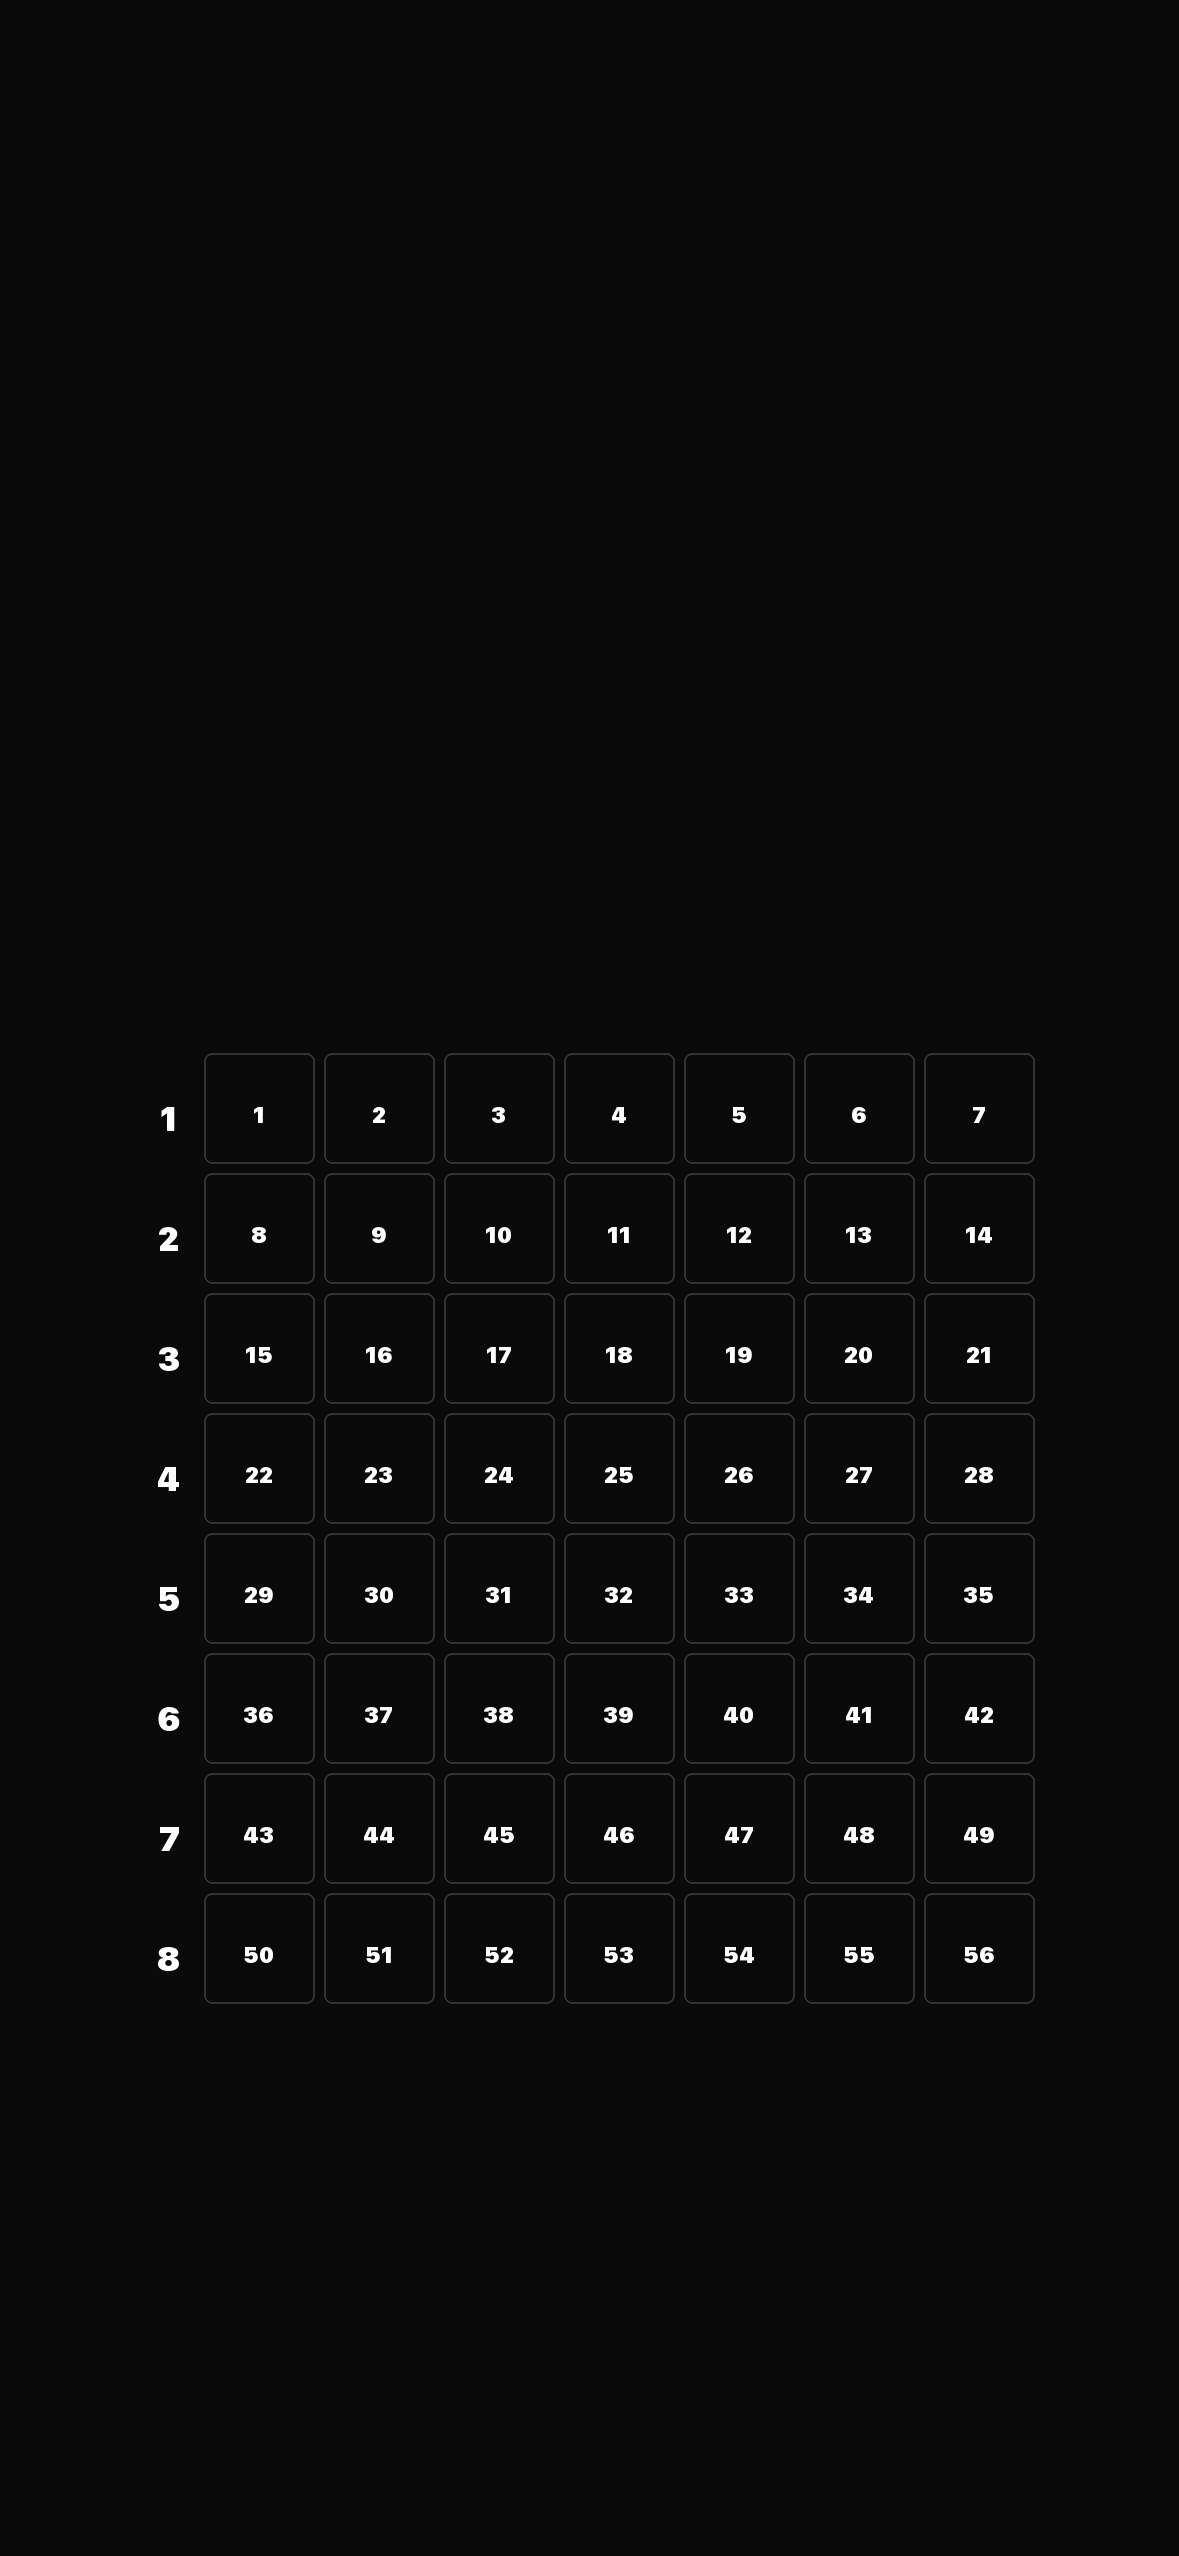
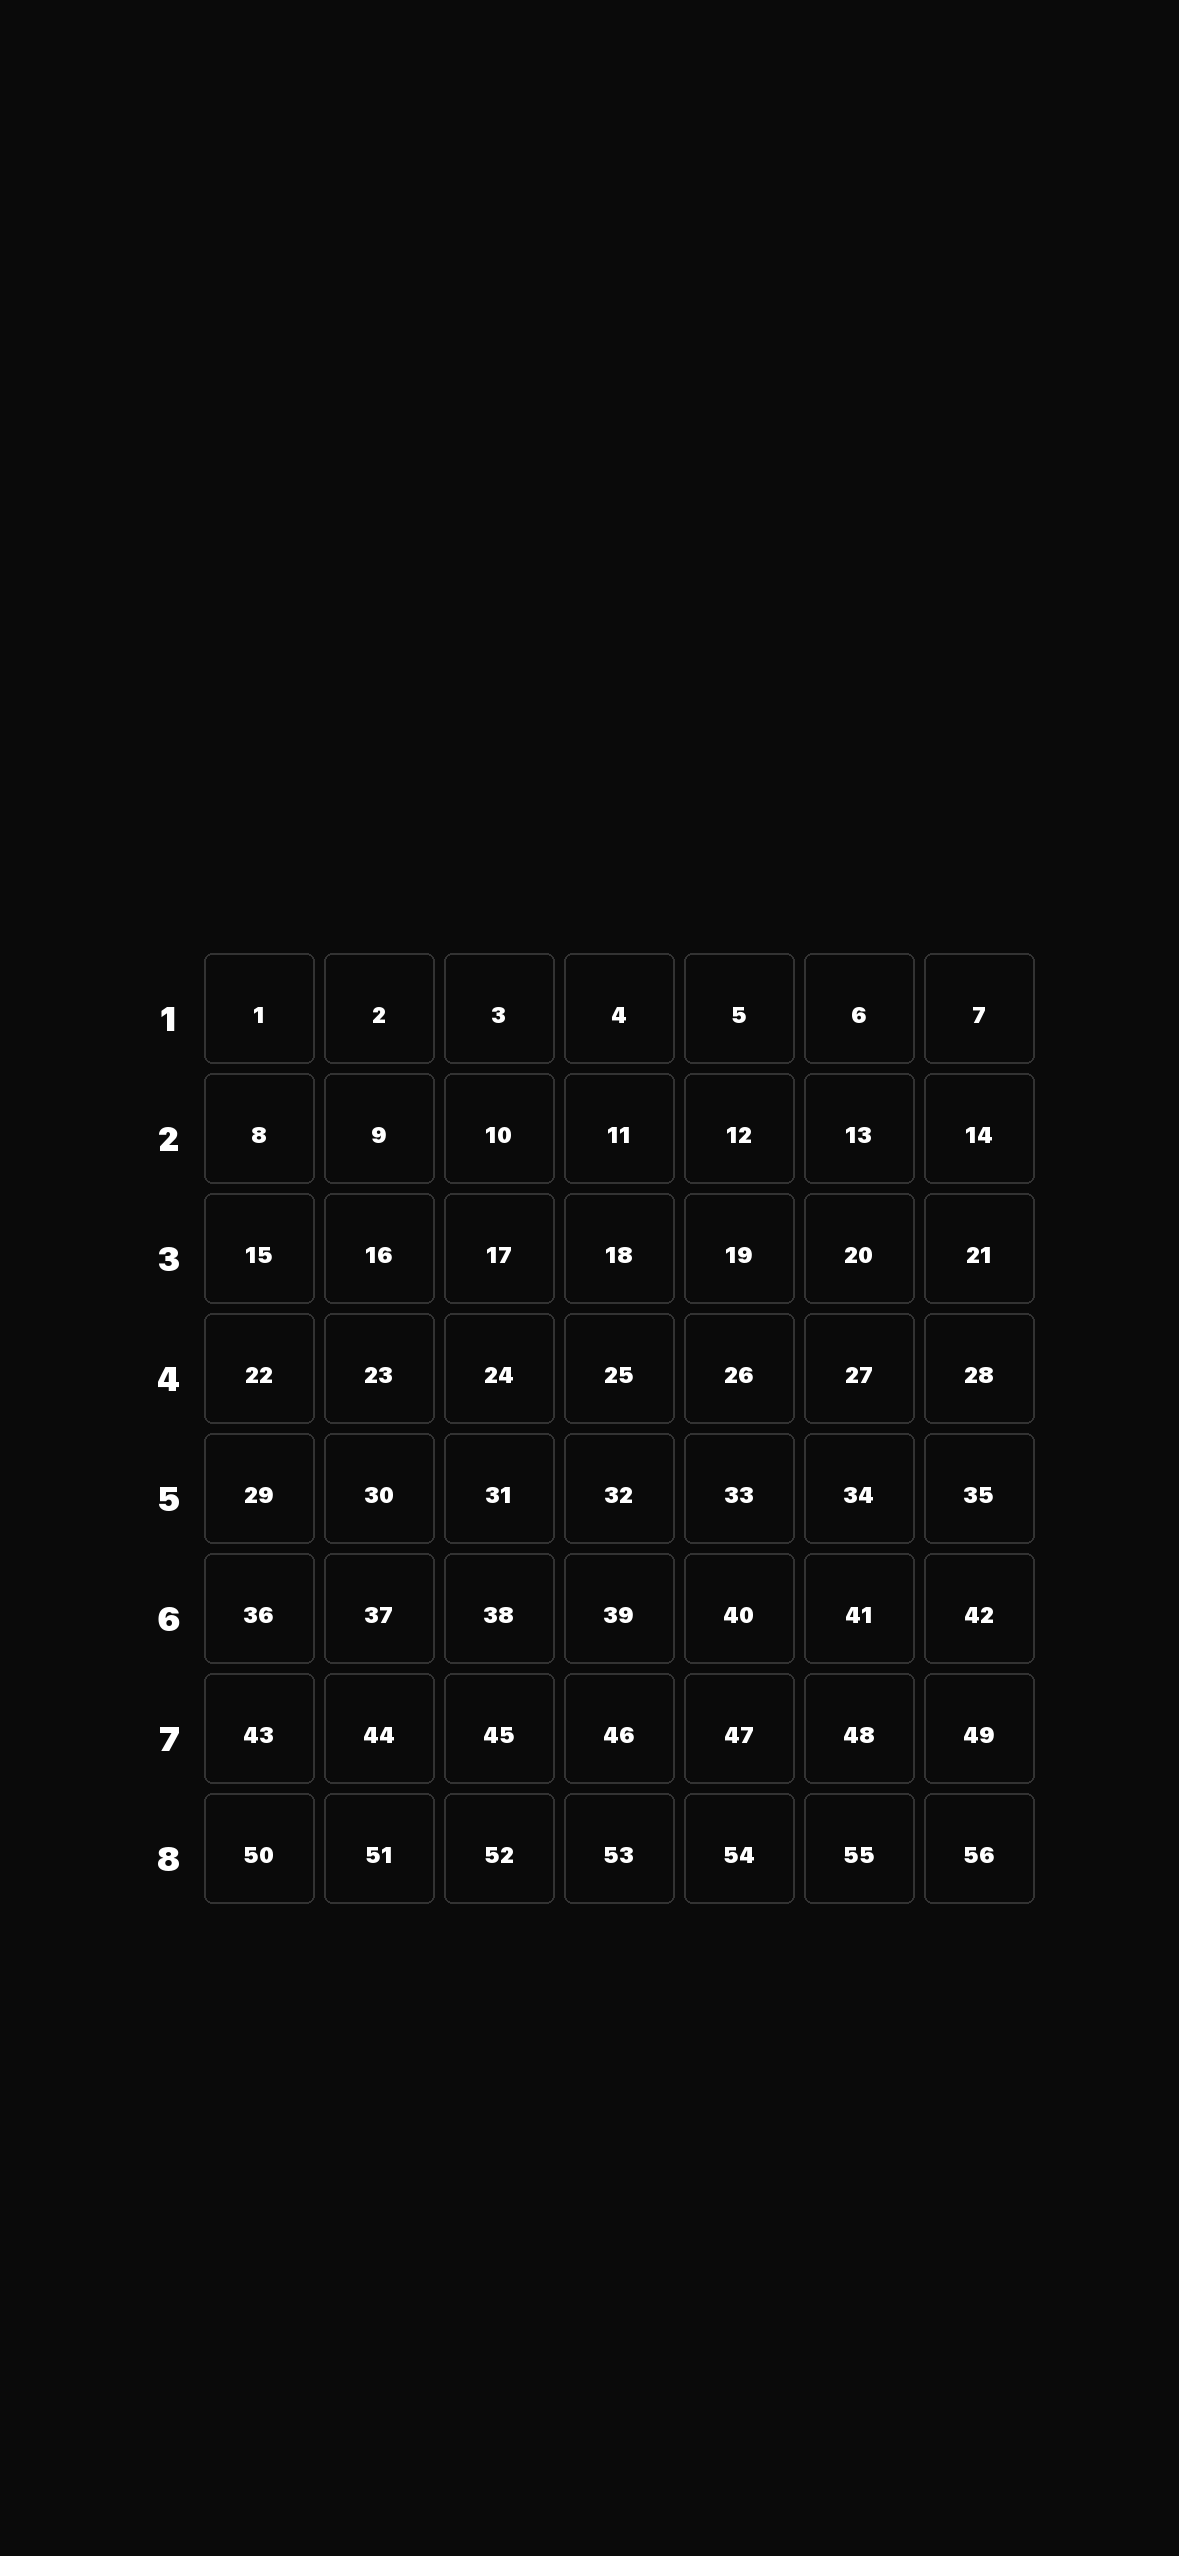
shift grid up

diff --git a/scripts/generate-wallpaper.py b/scripts/generate-wallpaper.py
@@ -44,7 +44,7 @@ def generate_wallpaper(output_path=None):
     start_x = (WIDTH - total_width) // 2 + row_label_width
     
     # Grid only — positioned to clear lock screen widgets
-    start_y = (HEIGHT - grid_height) // 2 + 250
+    start_y = (HEIGHT - grid_height) // 2 + 150
     
     # Draw row numbers (week numbers) on the left
     try:
